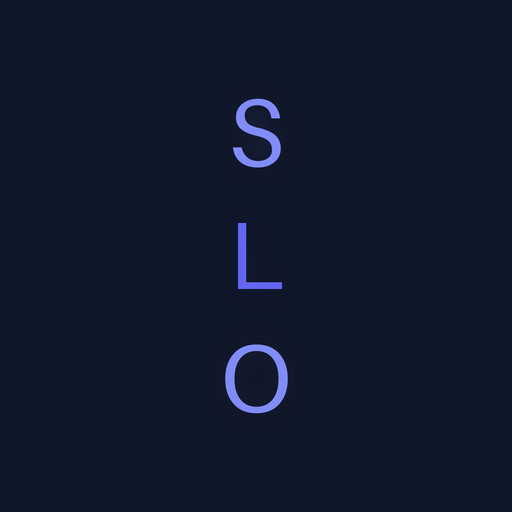
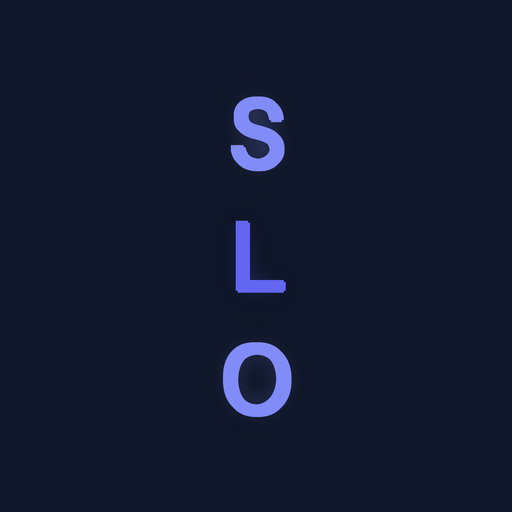
Tykkere bogstaver i SLO-ikonet

Changed region(s): [[0.4375, 0.6562, 0.5938, 0.8125], [0.4375, 0.1875, 0.5625, 0.3438], [0.4375, 0.4062, 0.5625, 0.5938]]

diff --git a/make_icon.py b/make_icon.py
@@ -29,8 +29,12 @@ def draw_icon(size, scale=1.0, path=None):
         bbox = d.textbbox((0, 0), ch, font=font)
         tw, th = bbox[2] - bbox[0], bbox[3] - bbox[1]
         pos = (W / 2 - tw / 2 - bbox[0], cy - th / 2 - bbox[1])
-        d.text(pos, ch, font=font, fill=col + (255,))
-        gd.text(pos, ch, font=font, fill=col + (160,))
+        w = max(2, int(font_size * 0.045))
+        for dx in range(-w, w + 1, max(1, w // 2)):
+            for dy in range(-w, w + 1, max(1, w // 2)):
+                if dx * dx + dy * dy <= w * w:
+                    d.text((pos[0] + dx, pos[1] + dy), ch, font=font, fill=col + (255,))
+                    gd.text((pos[0] + dx, pos[1] + dy), ch, font=font, fill=col + (160,))
 
     glow = glow.filter(ImageFilter.GaussianBlur(W // 40))
     out = Image.alpha_composite(base, glow)
